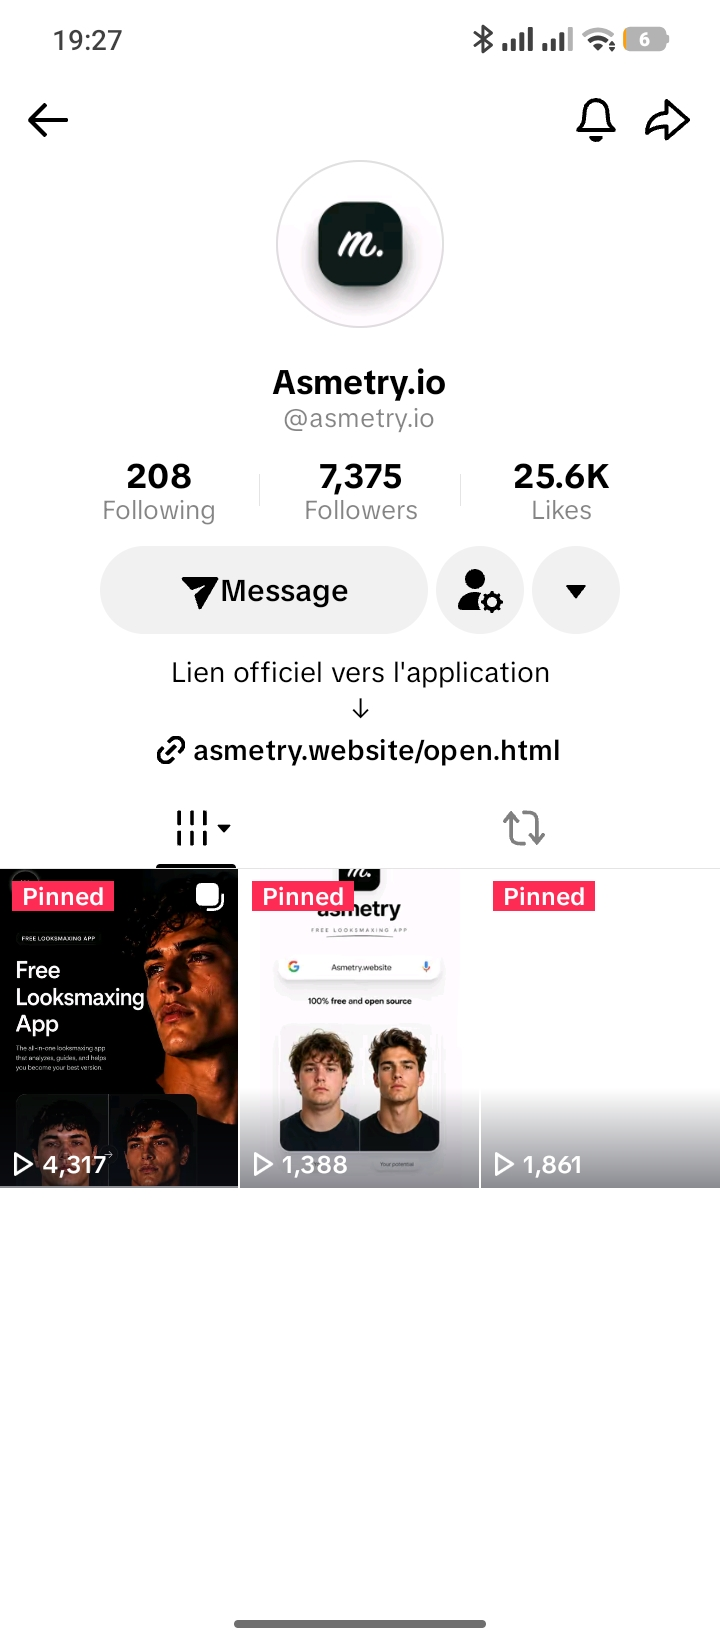
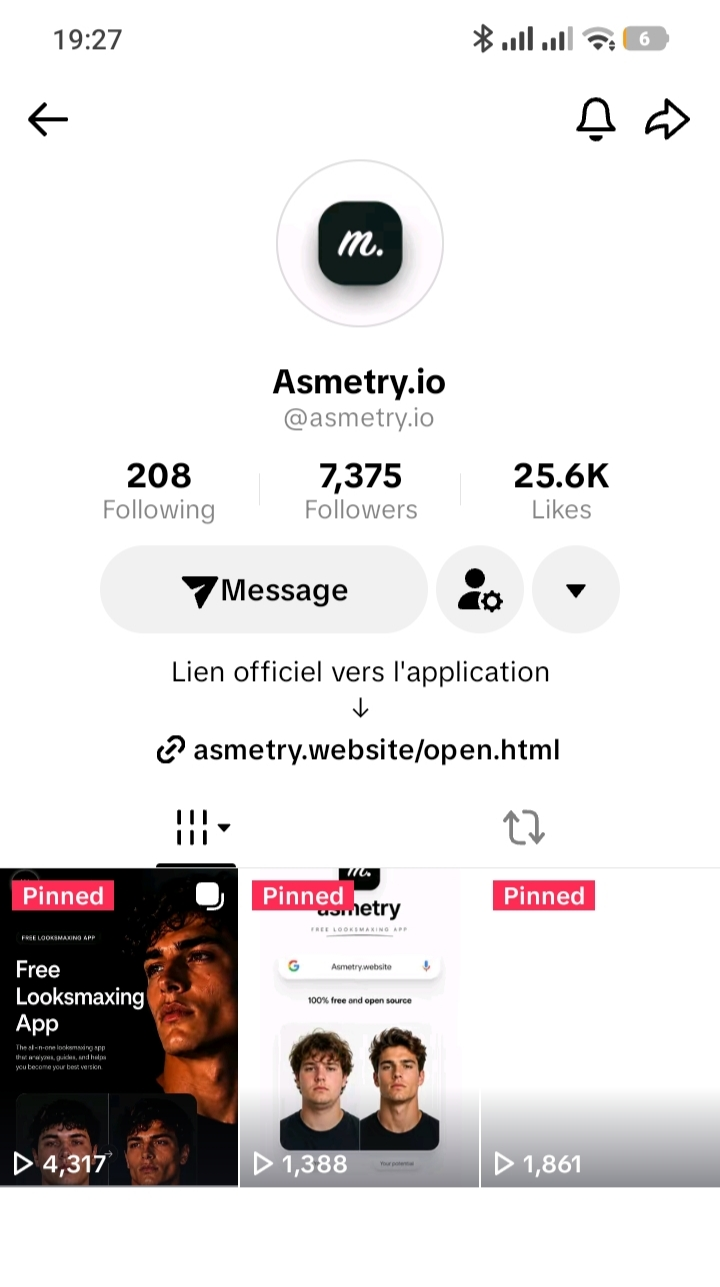
Finaliser la section de preuve sociale et clore la page
- Vraie capture d'écran TikTok (remplace celle du dossier media/)
- Bouton "Suivre @asmetry.io sur TikTok" en blanc plutôt qu'en noir
- Légende sous la capture retirée (superflue à côté du screenshot réel)
- Titre "Des transformations, pas des promesses." -> "Des transformations
  de looksmaxing."
- Témoignages cliquables : lecture en surimpression comme les vidéos,
  sans quitter le site
- Nouveau bloc de clôture : titre + bouton "Télécharger" vers unlock.html,
  puis un footer de fin sur fond noir (symétrique au footer clair du
  milieu de page)

Nettoyage : suppression des quatre fichiers dupliqués restés à la racine
du dépôt lors d'un premier envoi, et d'un bloc JavaScript de la modale
vidéo qui s'était retrouvé dupliqué.

Claude-Session: https://claude.ai/code/session_01S67uQFzUpJamZ6JhYFZgmf

diff --git a/index.html b/index.html
@@ -367,13 +367,6 @@ fbq('track', 'PageView');
     box-shadow: 0 12px 40px rgba(0,0,0,0.35);
   }
   .tiktok-proof-shot img { width: 100%; display: block; }
-  .tiktok-proof-caption {
-    font-size: 14px;
-    color: var(--gray-on-dark);
-    max-width: 34ch;
-    line-height: 1.5;
-  }
-
   /* Bloc 2 : grille de vidéos avant/après, format vertical */
   .video-grid {
     display: grid;
@@ -444,12 +437,57 @@ fbq('track', 'PageView');
     margin: 0 auto;
   }
   .chat-frame {
+    display: block;
+    padding: 0;
     border-radius: 20px;
     overflow: hidden;
     border: 1px solid var(--glass-border);
     background: var(--glass-bg);
+    cursor: pointer;
+    transition: transform 0.15s ease;
   }
-  .chat-frame img { width: 100%; display: block; }
+  .chat-frame:active { transform: scale(0.97); }
+  .chat-frame img { width: 100%; display: block; pointer-events: none; }
+
+  /* Dernier appel a l'action, dans le prolongement du fond noir */
+  .sp-final .sp-title { margin-bottom: 28px; }
+
+  /* Lecture des images en surimpression (meme mecanique que la modale video) */
+  .image-modal {
+    position: fixed; inset: 0;
+    background: rgba(0,0,0,0.9);
+    display: none;
+    align-items: center; justify-content: center;
+    z-index: 999;
+    padding: 24px;
+  }
+  .image-modal.open { display: flex; }
+  .image-modal img {
+    max-width: min(100%, 420px);
+    max-height: 88vh;
+    border-radius: 20px;
+    display: block;
+  }
+
+  /* Footer de cloture, sur fond noir : symetrie avec le footer clair du milieu de page */
+  .footer-dark {
+    background: var(--ink);
+    padding: 0 0 56px;
+    border-top: 1px solid var(--glass-border);
+    margin-top: 88px;
+  }
+  .footer-dark .wrap {
+    display: flex;
+    flex-direction: column;
+    align-items: center;
+    gap: 10px;
+    text-align: center;
+    padding-top: 40px;
+  }
+  .footer-dark .footer-brand { display: flex; align-items: center; gap: 8px; }
+  .footer-dark .footer-brand img { width: 22px; height: 22px; border-radius: 6px; object-fit: cover; }
+  .footer-dark .footer-brand span { font-size: 14px; font-weight: 700; color: #fff; }
+  .footer-dark .footer-fine { font-size: 12px; color: var(--gray-on-dark); }
 
   @media (max-width: 640px) {
     .video-grid, .chat-grid { grid-template-columns: repeat(2, 1fr); gap: 12px; }
@@ -647,15 +685,14 @@ fbq('track', 'PageView');
         <div class="tiktok-proof-shot">
           <img src="media/tiktok-screenshot.jpg" alt="Compte TikTok Asmetry" />
         </div>
-        <p class="tiktok-proof-caption" data-i18n="sp1_caption">Compte TikTok officiel d'Asmetry — 7 375 abonnés et 25,6 K mentions J'aime.</p>
-        <a class="btn btn-dark" href="https://www.tiktok.com/@asmetry.io" target="_blank" rel="noopener" data-i18n="sp1_cta">Suivre @asmetry.io sur TikTok</a>
+        <a class="btn btn-light" href="https://www.tiktok.com/@asmetry.io" target="_blank" rel="noopener" data-i18n="sp1_cta">Suivre @asmetry.io sur TikTok</a>
       </div>
     </div>
 
     <!-- Bloc 2 : vidéos avant/après, lues sur le site -->
     <div class="sp-row reveal">
       <div class="sp-kicker" data-i18n="sp2_kicker">Résultats réels</div>
-      <h2 class="sp-title" data-i18n="sp2_title">Des transformations, pas des promesses.</h2>
+      <h2 class="sp-title" data-i18n="sp2_title">Des transformations de looksmaxing.</h2>
       <div class="video-grid">
         <button class="video-frame" data-video="media/proof-video-1.mp4">
           <video src="media/proof-video-1.mp4" muted playsinline preload="metadata"></video>
@@ -685,33 +722,56 @@ fbq('track', 'PageView');
       <div class="sp-kicker" data-i18n="sp3_kicker">Ils nous l'ont dit</div>
       <h2 class="sp-title" data-i18n="sp3_title">Ce que nos premiers utilisateurs nous ont écrit.</h2>
       <div class="chat-grid">
-        <div class="chat-frame"><img src="media/testimonial-1.jpg" alt="" /></div>
-        <div class="chat-frame"><img src="media/testimonial-2.jpg" alt="" /></div>
-        <div class="chat-frame"><img src="media/testimonial-3.jpg" alt="" /></div>
+        <button class="chat-frame" data-img="media/testimonial-1.jpg"><img src="media/testimonial-1.jpg" alt="" /></button>
+        <button class="chat-frame" data-img="media/testimonial-2.jpg"><img src="media/testimonial-2.jpg" alt="" /></button>
+        <button class="chat-frame" data-img="media/testimonial-3.jpg"><img src="media/testimonial-3.jpg" alt="" /></button>
       </div>
+    </div>
+
+    <!-- Bloc 4 : dernier appel a l'action avant la fin de page -->
+    <div class="sp-row sp-final reveal">
+      <h2 class="sp-title" data-i18n="sp4_title">Prêt à voir votre propre potentiel ?</h2>
+      <a class="btn btn-light" href="unlock.html" data-i18n="sp4_cta">Télécharger</a>
     </div>
 
   </div>
 </section>
+
+<footer class="footer-dark">
+  <div class="wrap">
+    <div class="footer-brand">
[1 lines of base64/hex data omitted]
+      <span>Asmetry</span>
+    </div>
+    <div class="footer-fine">© <span id="year2"></span> Asmetry. <span data-i18n="footer_rights">Tous droits réservés.</span></div>
+  </div>
+</footer>
 
 <div class="video-modal" id="video-modal">
   <button class="video-modal-close" id="video-modal-close" aria-label="Fermer">&times;</button>
   <video id="video-modal-player" controls playsinline></video>
 </div>
 
+<div class="image-modal" id="image-modal">
+  <button class="video-modal-close" id="image-modal-close" aria-label="Fermer">&times;</button>
+  <img id="image-modal-img" src="" alt="" />
+</div>
+
 
 <script>
   document.getElementById('year').textContent = new Date().getFullYear();
+  document.getElementById('year2').textContent = new Date().getFullYear();
 
   var translations = {
     en: {
       get_app: "Get the App",
+      sp4_title: "Ready to see your own potential?",
+      sp4_cta: "Download",
       sp1_kicker: "Social proof",
       sp1_title: "A real community already follows us.",
-      sp1_caption: "Asmetry's official TikTok account — 7,375 followers and 25.6K likes.",
       sp1_cta: "Follow @asmetry.io on TikTok",
       sp2_kicker: "Real results",
-      sp2_title: "Transformations, not promises.",
+      sp2_title: "Looksmaxing transformations.",
       sp3_kicker: "They told us",
       sp3_title: "What our first users wrote to us.",
       social_kicker: "They already follow us",
@@ -760,12 +820,13 @@ fbq('track', 'PageView');
       footer_rights: "All rights reserved."
     },
     fr: {
+      sp4_title: "Prêt à voir votre propre potentiel ?",
+      sp4_cta: "Télécharger",
       sp1_kicker: "Preuve sociale",
       sp1_title: "Une vraie communauté nous suit déjà.",
-      sp1_caption: "Compte TikTok officiel d'Asmetry — 7 375 abonnés et 25,6 K mentions J'aime.",
       sp1_cta: "Suivre @asmetry.io sur TikTok",
       sp2_kicker: "Résultats réels",
-      sp2_title: "Des transformations, pas des promesses.",
+      sp2_title: "Des transformations de looksmaxing.",
       sp3_kicker: "Ils nous l'ont dit",
       sp3_title: "Ce que nos premiers utilisateurs nous ont écrit.",
       social_kicker: "Ils nous suivent déjà",
@@ -911,26 +972,21 @@ fbq('track', 'PageView');
   videoModal.addEventListener('click', function (e) { if (e.target === videoModal) closeVideo(); });
   document.addEventListener('keydown', function (e) { if (e.key === 'Escape') closeVideo(); });
 
-  // Les vidéos de transformation se lisent sur le site, en surimpression — aucun renvoi
-  // vers TikTok : le visiteur venu d'une publicité ne doit pas quitter la page.
-  var videoModal = document.getElementById('video-modal');
-  var videoPlayer = document.getElementById('video-modal-player');
-  function closeVideo() {
-    videoPlayer.pause();
-    videoPlayer.removeAttribute('src');
-    videoPlayer.load();
-    videoModal.classList.remove('open');
-  }
-  document.querySelectorAll('.video-frame').forEach(function (frame) {
+
+  // Les captures de témoignages se lisent aussi en surimpression, pour un agrandissement
+  // confortable sans quitter la page.
+  var imageModal = document.getElementById('image-modal');
+  var imageModalImg = document.getElementById('image-modal-img');
+  function closeImage() { imageModal.classList.remove('open'); }
+  document.querySelectorAll('.chat-frame').forEach(function (frame) {
     frame.addEventListener('click', function () {
-      videoPlayer.src = frame.getAttribute('data-video');
-      videoModal.classList.add('open');
-      videoPlayer.play();
+      imageModalImg.src = frame.getAttribute('data-img');
+      imageModal.classList.add('open');
     });
   });
-  document.getElementById('video-modal-close').addEventListener('click', closeVideo);
-  videoModal.addEventListener('click', function (e) { if (e.target === videoModal) closeVideo(); });
-  document.addEventListener('keydown', function (e) { if (e.key === 'Escape') closeVideo(); });
+  document.getElementById('image-modal-close').addEventListener('click', closeImage);
+  imageModal.addEventListener('click', function (e) { if (e.target === imageModal) closeImage(); });
+  document.addEventListener('keydown', function (e) { if (e.key === 'Escape') closeImage(); });
 </script>
 </body>
 </html>
